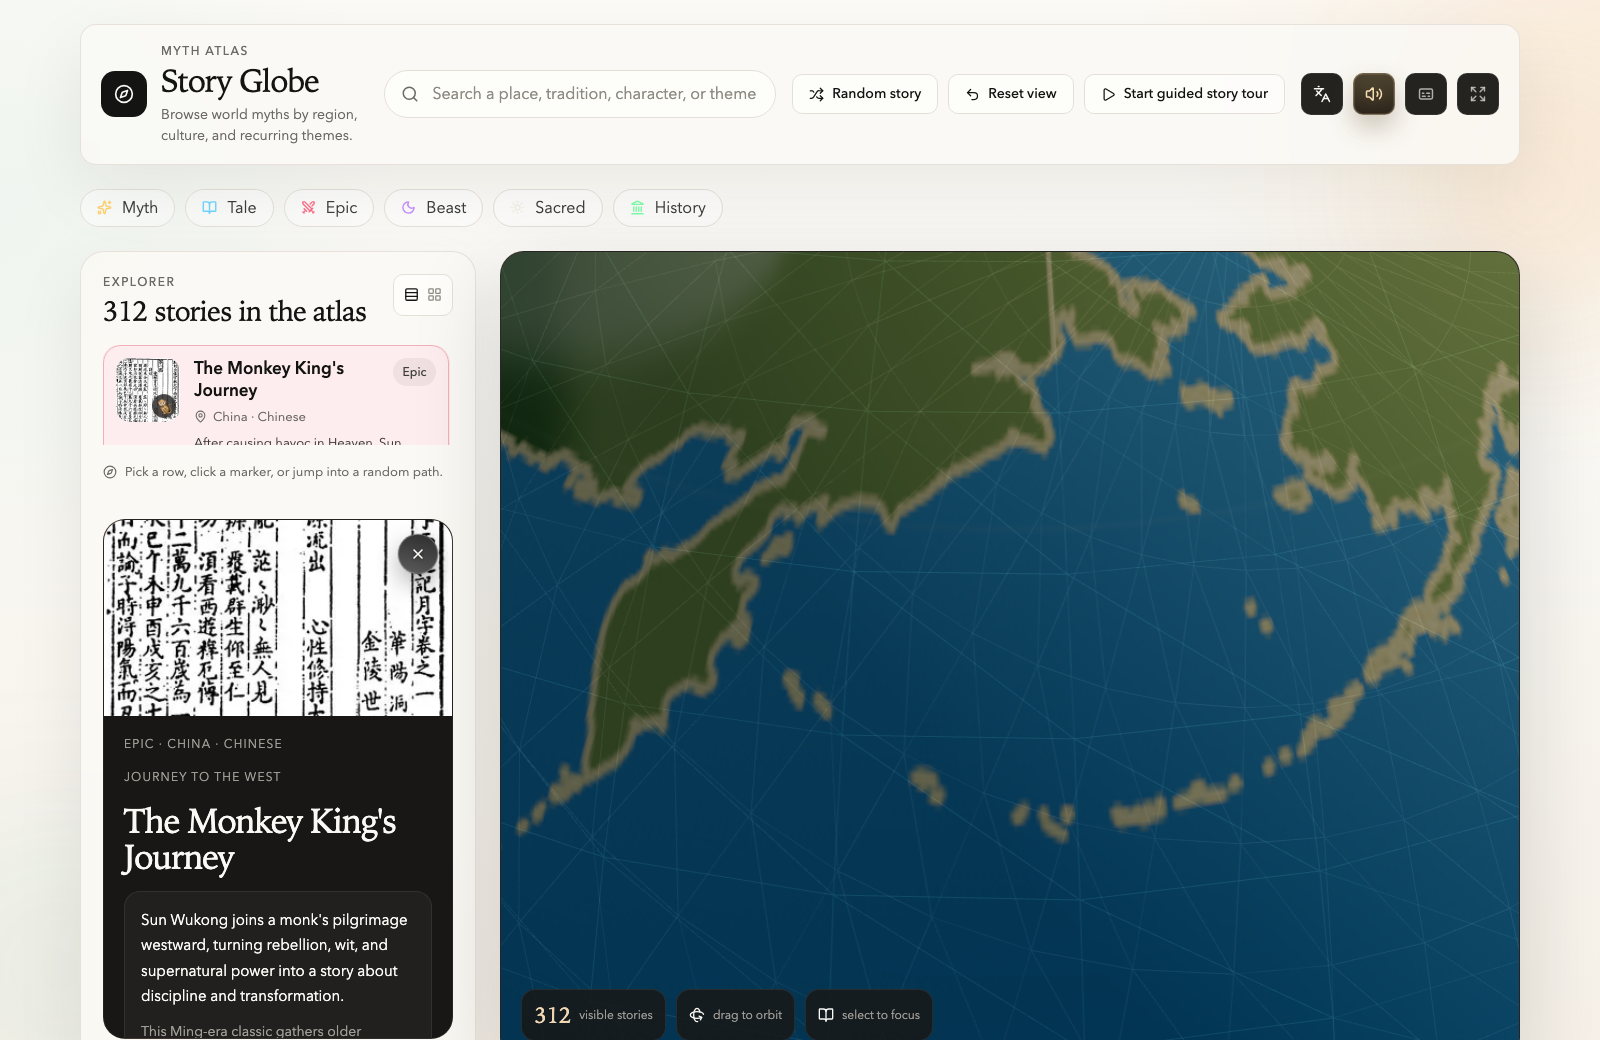
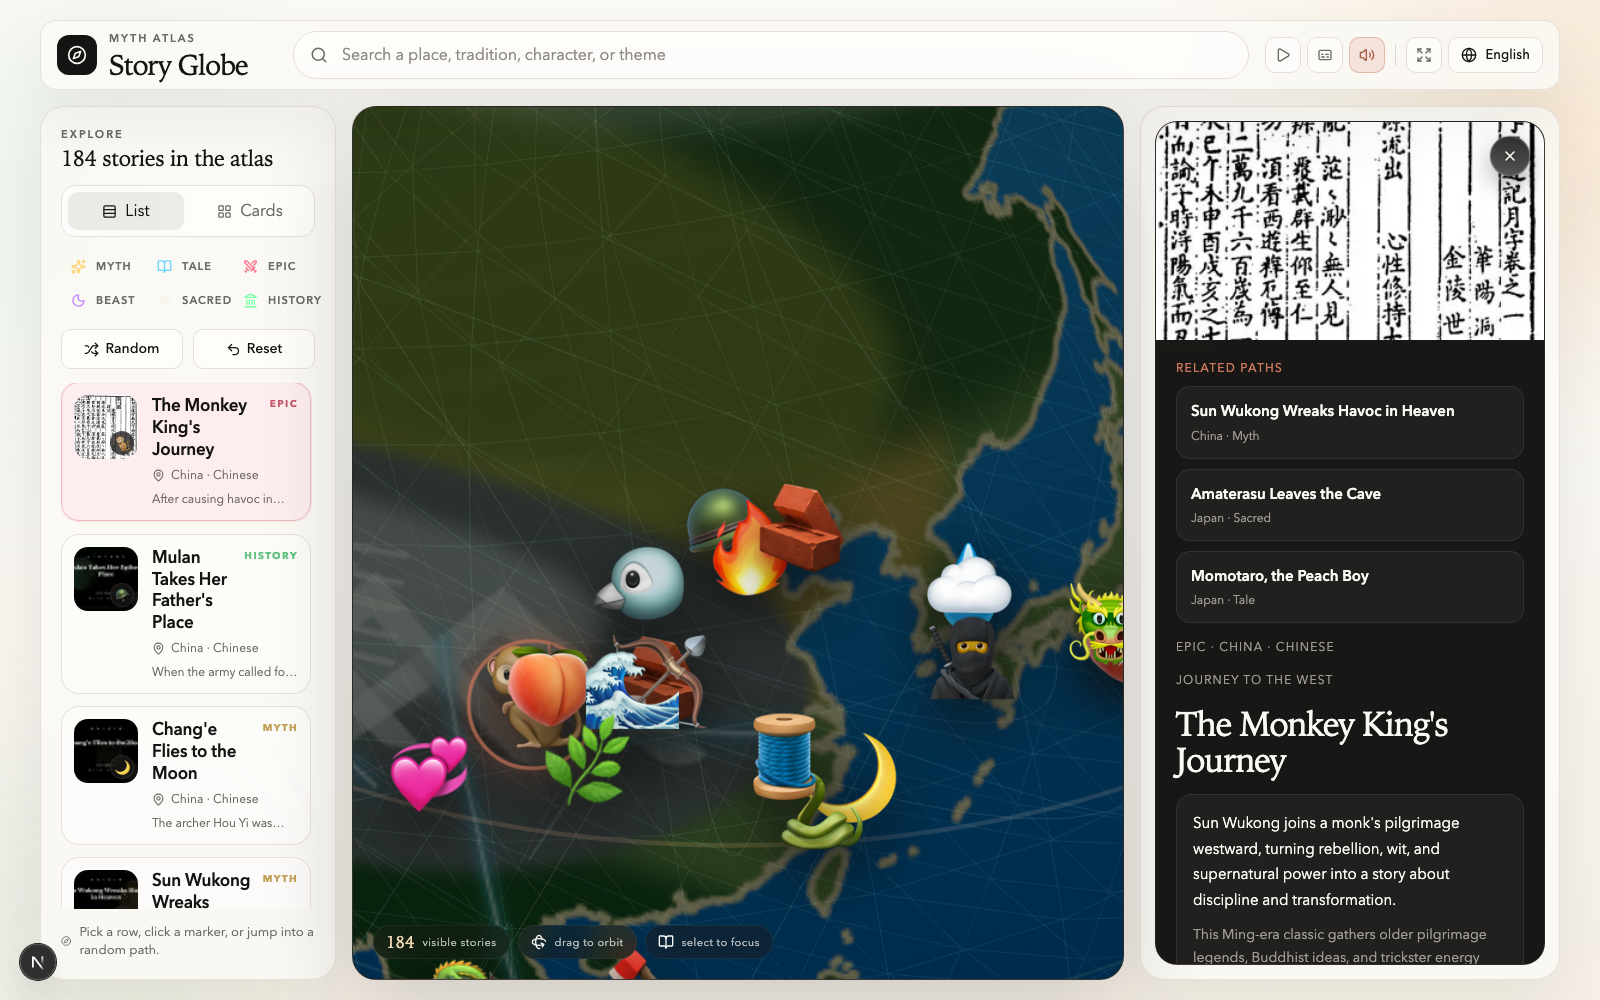
docs: refresh README and Pages screenshots

diff --git a/docs/index.html b/docs/index.html
@@ -158,28 +158,28 @@
               <img src="./readme/overview-en-2026-05.png" alt="Myth Atlas main explorer interface" loading="eager" />
               <figcaption>
                 <strong>Main explorer</strong>
-                <span>The globe, search, filters, and story list share one workspace.</span>
+                <span>The explorer, globe, quick actions, and story starter panel share one workspace.</span>
               </figcaption>
             </figure>
             <figure class="screen-card">
               <img src="./readme/story-detail-en-2026-05.png" alt="Myth Atlas story detail interface" loading="lazy" />
               <figcaption>
                 <strong>Story details</strong>
-                <span>Each entry includes artwork, background, themes, and a short narrative summary.</span>
+                <span>Each entry opens in a dedicated detail panel while the globe and nearby story list stay visible.</span>
               </figcaption>
             </figure>
             <figure class="screen-card">
               <img src="./readme/card-view-en-2026-05.png" alt="Myth Atlas card browsing interface" loading="lazy" />
               <figcaption>
                 <strong>Card browsing</strong>
-                <span>Start visually, then open the stories that catch your attention.</span>
+                <span>Start visually, then open the stories whose artwork and leads catch your attention.</span>
               </figcaption>
             </figure>
             <figure class="screen-card">
-              <img src="./readme/overview-zh-2026-05.png" alt="Myth Atlas multilingual interface" loading="lazy" />
+              <img src="./readme/language-menu-en-2026-05.png" alt="Myth Atlas language menu" loading="lazy" />
               <figcaption>
-                <strong>Multilingual interface</strong>
-                <span>Switch languages from the top bar without leaving the atlas.</span>
+                <strong>Language menu</strong>
+                <span>Switch between English, Chinese, Spanish, and Arabic from the top bar without leaving the atlas.</span>
               </figcaption>
             </figure>
           </div>
@@ -254,7 +254,7 @@ pnpm dev</code></pre>
             </article>
             <article>
               <h3>Does it support multiple languages?</h3>
-              <p>Yes. The app includes a multilingual interface that you can switch from the top bar.</p>
+              <p>Yes. The top-bar language menu currently supports English, Chinese, Spanish, and Arabic.</p>
             </article>
             <article>
               <h3>What if dependency installation is slow?</h3>

diff --git a/README.md b/README.md
@@ -18,7 +18,7 @@ https://shadowed-island.github.io/myth-atlas/
 - Open a story detail panel with artwork, background, themes, and related paths.
 - Switch between list browsing and card browsing.
 - Start a guided tour and optionally enable spoken narration.
-- Switch between English and Chinese.
+- Switch between English, Chinese, Spanish, and Arabic.
 - Let the atlas pick a random story for you.
 - Optionally package it as a desktop app with Electron.
 
@@ -28,25 +28,25 @@ https://shadowed-island.github.io/myth-atlas/
 
 ![Main exploration view](docs/readme/overview-en-2026-05.png)
 
-The default layout combines the globe, search, category filters, and story list in one screen.
+The latest layout keeps the explorer, globe, quick actions, and story starter panel visible in one workspace.
 
 ### Story detail view
 
 ![Story detail view](docs/readme/story-detail-en-2026-05.png)
 
-Selecting a story opens a richer view with artwork, location context, and a longer narrative summary.
+Selecting a story opens a dedicated detail panel while keeping the globe and nearby story list in view.
 
 ### Card browsing view
 
 ![Card browsing view](docs/readme/card-view-en-2026-05.png)
 
-Card view is useful when you want to browse visually before opening a story path.
+Card view is useful when you want to skim artwork and story leads before opening a path.
 
 ### Multilingual interface
 
-![Multilingual interface](docs/readme/overview-zh-2026-05.png)
+![Multilingual interface](docs/readme/language-menu-en-2026-05.png)
 
-The full app supports multiple languages from the language menu in the top bar.
+The language menu in the top bar currently supports English, 中文, Español, and العربية.
 
 ## Quick Start for Regular Users
 